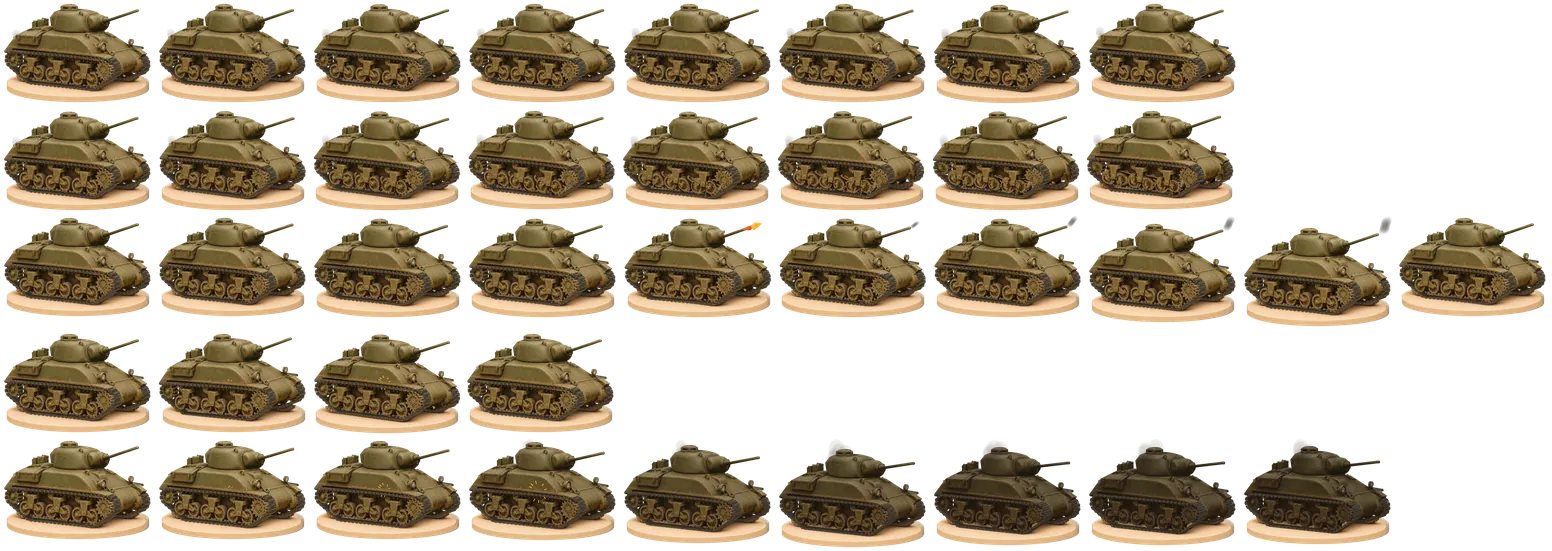
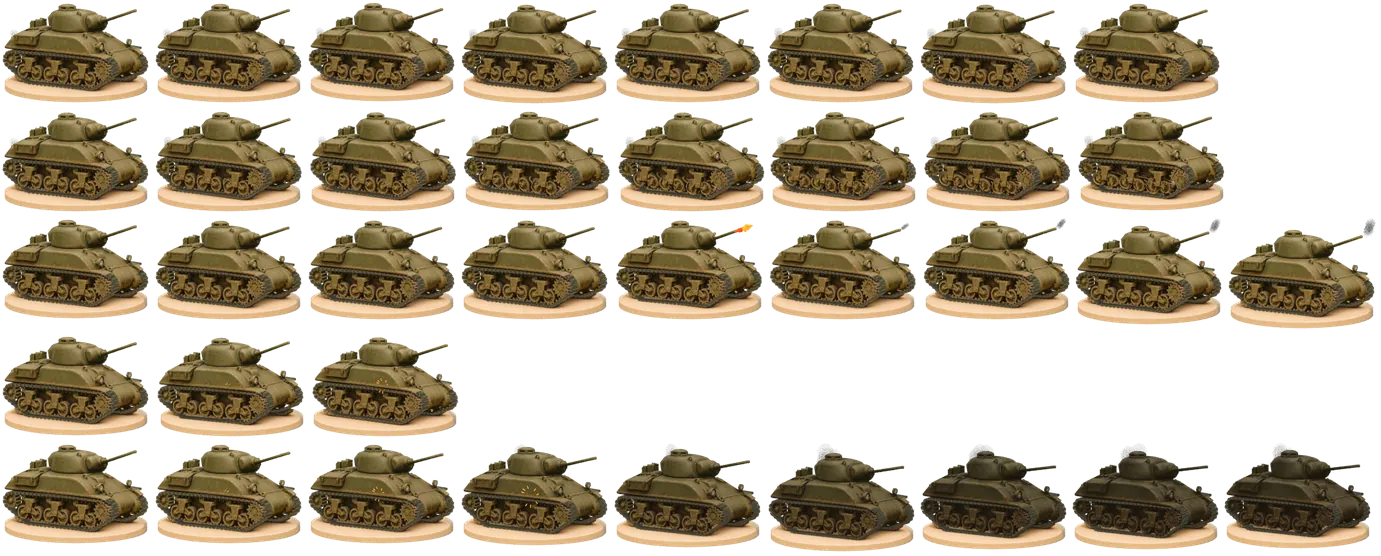
Codex task unit-anim-3d-vehicles: work left uncommitted in the sandbox

diff --git a/tools/art/anim3d/vehicles/paint.py b/tools/art/anim3d/vehicles/paint.py
@@ -9,6 +9,14 @@ from mathutils import Vector
 R=Path(os.environ['ANIM_ROOT']);M=R/'masters/tank'
 bpy.ops.wm.open_mainfile(filepath=str(M/'tank.blend'));sc=bpy.context.scene;bpy.context.view_layer.update()
 tex=bpy.data.images.load(str(M/'textures/painting-projection.png'),check_existing=True)
+light=bpy.data.images.load(str(M/'textures/painting-light.png'),check_existing=True)
+# This frame follows hull suspension, but never wheel spin. Object coordinates
+# supply the same orthographic UV field as PaintingProjection at rest.
+frame=bpy.data.objects.new('Wheel illumination frame',None)
+sc.collection.objects.link(frame)
+frame.matrix_world=sc.camera.matrix_world.copy()
+frame.parent=bpy.data.objects['Vehicle suspension root']
+frame.matrix_parent_inverse=frame.parent.matrix_world.inverted()
 view=sc.camera.rotation_euler.to_matrix() @ Vector((0,0,1))
 records=[]
 # Track shoes pass through many rest-screen positions. Their own physical steel
@@ -31,10 +39,12 @@ for name in names:
         facing=max(0,min(1,((normalmatrix @ v.normal).normalized().dot(view)+.08)/.08))
         weights.data[loop.index].color=(facing,facing,facing,1)
     original_material=o.data.materials[0]
-    if original_material.name in materials:
-        o.data.materials.clear();o.data.materials.append(materials[original_material.name]);continue
+    wheel=bool(o.parent and 'wheel' in o.parent)
+    material_key=(original_material.name,wheel)
+    if material_key in materials:
+        o.data.materials.clear();o.data.materials.append(materials[material_key]);continue
     mat=original_material.copy();mat.name=original_material.name+' • painted projection'
-    materials[original_material.name]=mat
+    materials[material_key]=mat
     o.data.materials.clear();o.data.materials.append(mat)
     n=mat.node_tree.nodes;l=mat.node_tree.links;s=n.get('Principled BSDF')
     if old:
@@ -44,10 +54,30 @@ for name in names:
     original=s.inputs['Base Color'].links[0].from_socket
     coord=n.new('ShaderNodeUVMap');coord.uv_map='PaintingProjection'
     image=n.new('ShaderNodeTexImage');image.image=tex;image.extension='CLIP';l.new(coord.outputs[0],image.inputs['Vector'])
+    pigment=image.outputs['Color']
+    if wheel:
+        moving=n.new('ShaderNodeTexImage');moving.image=light;moving.name='Wheel rotating broad light'
+        l.new(coord.outputs[0],moving.inputs['Vector'])
+        fixed=n.new('ShaderNodeTexCoord');fixed.object=frame
+        scale=n.new('ShaderNodeVectorMath');scale.operation='SCALE';scale.inputs[3].default_value=1/sc.camera.data.ortho_scale
+        l.new(fixed.outputs['Object'],scale.inputs[0])
+        offset=n.new('ShaderNodeVectorMath');offset.operation='ADD';offset.inputs[1].default_value=(.5,.5,0)
+        l.new(scale.outputs[0],offset.inputs[0])
+        stationary=n.new('ShaderNodeTexImage');stationary.image=light;stationary.name='Wheel stationary broad light'
+        l.new(offset.outputs[0],stationary.inputs['Vector'])
+        floor=n.new('ShaderNodeVectorMath');floor.operation='MAXIMUM';floor.inputs[1].default_value=(.018,)*3
+        l.new(moving.outputs['Color'],floor.inputs[0])
+        ratio=n.new('ShaderNodeVectorMath');ratio.operation='DIVIDE'
+        l.new(stationary.outputs['Color'],ratio.inputs[0]);l.new(floor.outputs[0],ratio.inputs[1])
+        low=n.new('ShaderNodeVectorMath');low.operation='MAXIMUM';low.inputs[1].default_value=(.6,)*3;l.new(ratio.outputs[0],low.inputs[0])
+        high=n.new('ShaderNodeVectorMath');high.operation='MINIMUM';high.inputs[1].default_value=(1.65,)*3;l.new(low.outputs[0],high.inputs[0])
+        corrected=n.new('ShaderNodeVectorMath');corrected.operation='MULTIPLY'
+        l.new(image.outputs['Color'],corrected.inputs[0]);l.new(high.outputs[0],corrected.inputs[1]);pigment=corrected.outputs[0]
+        mat['wheel_light_separated']=True
     confidence=n.new('ShaderNodeVertexColor');confidence.layer_name='Paint confidence'
     mask=n.new('ShaderNodeMath');mask.operation='MULTIPLY';l.new(confidence.outputs['Color'],mask.inputs[0]);l.new(image.outputs['Alpha'],mask.inputs[1])
     strength=n.new('ShaderNodeMath');strength.operation='MULTIPLY';strength.inputs[1].default_value=.98;l.new(mask.outputs[0],strength.inputs[0])
-    blend=n.new('ShaderNodeMixRGB');l.new(strength.outputs[0],blend.inputs[0]);l.new(original,blend.inputs[1]);l.new(image.outputs['Color'],blend.inputs[2]);l.new(blend.outputs[0],s.inputs['Base Color'])
+    blend=n.new('ShaderNodeMixRGB');l.new(strength.outputs[0],blend.inputs[0]);l.new(original,blend.inputs[1]);l.new(pigment,blend.inputs[2]);l.new(blend.outputs[0],s.inputs['Base Color'])
     s.inputs['Roughness'].default_value=.78;s.inputs['Metallic'].default_value=0
     # The painting already contains hand-painted light. A partial emission mix retains
     # that brushwork while the physical BSDF still supplies grain, edge glints and relief.
@@ -63,7 +93,7 @@ for material_name in ('Track steel • worn and earth packed', 'Dusty rubbed edg
     mat=bpy.data.materials[material_name];n=mat.node_tree.nodes;l=mat.node_tree.links
     shader=n.get('Principled BSDF');output=next(node for node in n if node.type=='OUTPUT_MATERIAL')
     emission=n.new('ShaderNodeEmission');l.new(shader.inputs['Base Color'].links[0].from_socket,emission.inputs['Color'])
-    lightpath=n.new('ShaderNodeLightPath');weight=n.new('ShaderNodeMath');weight.operation='MULTIPLY';weight.inputs[1].default_value=.25
+    lightpath=n.new('ShaderNodeLightPath');weight=n.new('ShaderNodeMath');weight.operation='MULTIPLY';weight.inputs[1].default_value=.40
     l.new(lightpath.outputs['Is Camera Ray'],weight.inputs[0])
     mix=n.new('ShaderNodeMixShader');l.new(weight.outputs[0],mix.inputs[0]);l.new(shader.outputs[0],mix.inputs[1]);l.new(emission.outputs[0],mix.inputs[2]);l.new(mix.outputs[0],output.inputs['Surface'])
 bpy.ops.file.pack_all();bpy.ops.wm.save_as_mainfile(filepath=str(M/'tank.blend'))

diff --git a/tools/art/anim3d/vehicles/refine.py b/tools/art/anim3d/vehicles/refine.py
@@ -183,14 +183,17 @@ for side in (-1,1):
             obj.location=(x,side*.99,z);obj.rotation_euler.y=a
             # Reduce the protruding shoe width, preserving pitch and real depth.
             for child in obj.children:
-                child.location.y*=.85
-                for vertex in child.data.vertices:vertex.co.y*=.85
+                child.location.y*=.78
+                for vertex in child.data.vertices:vertex.co.y*=.78
                 child.data.update()
 # Full-depth fenders clear each independently registered suspension side.
 for obj in bpy.data.objects:
     if obj.type!='MESH' or not obj.name.startswith(('Raised track fender','Fender folded edge','Front mudguard')):continue
     inverse=obj.matrix_world.inverted();root=bpy.data.objects['Vehicle suspension root']
-    ends=endsets[-1 if obj.location.y<0 else 1]
+    # Converted curves have an origin at zero: classify their actual vertices.
+    center=sum((root.matrix_world.inverted()@(obj.matrix_world@v.co)
+                for v in obj.data.vertices),Vector())/len(obj.data.vertices)
+    ends=endsets[-1 if center.y<0 else 1]
     for vertex in obj.data.vertices:
         world=obj.matrix_world@vertex.co
         local=root.matrix_world.inverted()@world
@@ -199,6 +202,9 @@ for obj in bpy.data.objects:
         local.z+=top-1.19
         vertex.co=inverse@(root.matrix_world@local)
     obj.data.update()
+# Seat the far rolled edge on the fender: the old converted curve protruded
+# behind the headlamp as a free horizontal rod.
+fit('Far rolled fender edge', ('Fender folded edge.001',), (0,0), offset=(0,6))
 # The transmission casting must meet the newly registered drive axle. Extend
 # its real forward volume and adjoining glacis rather than leaving a hollow
 # track loop beyond the short old nose.
@@ -220,6 +226,26 @@ for vertex in hull.data.vertices:
     w=max(0,min(1,(60-x)/25))*max(0,min(1,(y-95)/20))
     vertex.co=inverse@(world-right*units*8*w)
 hull.data.update()
+# Round-4 rear shoulder: the former extra extension made a low angular prow
+# behind the box. Move the closed surface back into the painted shoulder.
+for vertex in hull.data.vertices:
+    world=hull.matrix_world@vertex.co;p=world_to_camera_view(sc,camera,world)
+    x,y=p.x*256,(1-p.y)*256
+    w=max(0,min(1,(55-x)/35))*max(0,min(1,(y-98)/20))
+    vertex.co=inverse@(world+units*(right*4+up*7)*w)
+hull.data.update()
+# Keep the forward mudguards over the belt instead of the old straight blades.
+for obj in bpy.data.objects:
+    if obj.type!='MESH' or not obj.name.startswith('Front mudguard'):continue
+    inverse=obj.matrix_world.inverted()
+    near=obj.location.y<0
+    for vertex in obj.data.vertices:
+        world=obj.matrix_world@vertex.co;p=world_to_camera_view(sc,camera,world)
+        x,y=p.x*256,(1-p.y)*256
+        # Taper the forward tip while retaining the original thickness/depth.
+        w=max(0,min(1,(x-(175 if near else 225))/17))
+        vertex.co=inverse@(world+units*(-right*3+up*.8)*w)
+    obj.data.update()
 # Camera-only source pigment retains the painting's display colour. Physical
 # lights remain responsible for shadows, bevel response and unseen surfaces.
 sc.view_settings.view_transform='Standard';sc.view_settings.look='None';sc.view_settings.exposure=0

diff --git a/tools/art/anim3d/vehicles/audit.py b/tools/art/anim3d/vehicles/audit.py
@@ -2,6 +2,7 @@
 import bpy,os,json,math,sys
 from pathlib import Path
 from mathutils import Vector
+from bpy_extras.object_utils import world_to_camera_view
 sys.path.insert(0,str(Path(__file__).resolve().parent))
 from runninggear import route
 R=Path(os.environ['ANIM_ROOT']);M=R/'masters/tank';results={}
@@ -19,9 +20,28 @@ for clip,count in [('idle',8),('move',8),('attack',10),('hit',4),('death',10)]:
     assert all(o.type=='MESH' for o in [bpy.data.objects['Sloped upper hull'],bpy.data.objects['Rounded cast turret']])
     root=bpy.data.objects['Vehicle suspension root'];turret=bpy.data.objects['Turret traverse'];gun=bpy.data.objects['Gun recoil']
     assert turret.parent==root and gun.parent==turret
+    light_frame=bpy.data.objects['Wheel illumination frame']
+    assert light_frame.parent==root and not light_frame.animation_data
+    light_local=light_frame.matrix_local.copy()
+    separated=[o for o in bpy.data.objects if o.type=='MESH' and o.parent in wheels
+               and not o.name.startswith('Sprocket tooth')]
+    assert separated and all(o.data.materials[0].get('wheel_light_separated') for o in separated)
+    # At the authored rest transform the fixed field must match frozen UVs.
+    # A wrong parent inverse otherwise changes every wheel's rest-pose colour.
+    sc.frame_set(1);bpy.context.view_layer.update()
+    if clip!='move':
+        for obj in separated:
+            world=obj.matrix_world@obj.data.vertices[0].co
+            uv=world_to_camera_view(sc,sc.camera,world)
+            fixed=light_frame.matrix_world.inverted()@world
+            assert abs(fixed.x/sc.camera.data.ortho_scale+.5-uv.x)<1e-5
+            assert abs(fixed.y/sc.camera.data.ortho_scale+.5-uv.y)<1e-5
     positions=[];wheel_angles=[];gun_positions=[];ground=[]
     for f in samples:
         sc.frame_set(f);bpy.context.view_layer.update();assert base.matrix_world==base_initial
+        error=max(abs(light_frame.matrix_local[r][c]-light_local[r][c])
+                  for r in range(4) for c in range(4))
+        assert error<1e-5,('Broad wheel lighting must not spin',error)
         positions.append(tuple(links[0].location));wheel_angles.append(wheels[0].rotation_euler.y);gun_positions.append(gun.location.x)
         # Track link centre minus its shoe half-thickness at the lowest contact.
         ground.append(min((o.matrix_world.translation.z-.028) for o in links))

diff --git a/tools/art/anim3d/vehicles/prepare-paint.py b/tools/art/anim3d/vehicles/prepare-paint.py
@@ -1,7 +1,7 @@
 """Fit the full-resolution alpha master to the exact token camera field (no warping)."""
 from pathlib import Path
 import os,hashlib,json
-from PIL import Image
+from PIL import Image,ImageFilter
 R=Path(os.environ['ANIM_ROOT']);M=R/'masters/tank';source=M/'tank-source.png'
 lock=json.loads(Path('tools/art/anim3d/units/tank/assets.lock.json').read_text())
 for entry in lock['files']:
@@ -11,4 +11,7 @@ for entry in lock['files']:
 im=Image.open(source).convert('RGBA');fig=im.crop(im.getchannel('A').getbbox())
 k=min(928/fig.width,928/fig.height);fig=fig.resize((round(fig.width*k),round(fig.height*k)),Image.Resampling.LANCZOS)
 out=Image.new('RGBA',(1024,1024));out.alpha_composite(fig,((1024-fig.width)//2,(1024-fig.height)//2));out.save(M/'textures/painting-projection.png')
+# A low-frequency illumination estimate, not an albedo claim. Wheel detail uses
+# the original pigment; this smooth field separates its broad painted light.
+out.convert('RGB').filter(ImageFilter.GaussianBlur(16)).save(M/'textures/painting-light.png')
 (M/'textures/painting-projection.json').write_text(json.dumps({'source_sha256':hashlib.sha256(source.read_bytes()).hexdigest(),'fit':'same alpha-bbox fit as unit-art.py: 232/256 field, 4x resolution','size':1024},indent=2))

diff --git a/tools/art/anim3d/vehicles/video.py b/tools/art/anim3d/vehicles/video.py
@@ -5,7 +5,7 @@ from PIL import Image, ImageDraw
 from deliver import CLIPS, restore, OUT, REVIEW, R
 meta=json.loads((OUT/'tank.json').read_text());atlas=Image.open(OUT/'tank.webp').convert('RGBA')
 frames={n:[restore(atlas,r).resize((320,320),Image.Resampling.LANCZOS) for r in c['rects']] for n,c in meta['clips'].items()}
-round_label=os.environ.get('ROUND','3-cpu')
+round_label=os.environ.get('ROUND','4-cpu')
 assert all(c.isalnum() or c in '-_' for c in round_label)
 out=REVIEW/f'tank-round{round_label}.mp4'
 cmd=['ffmpeg','-y','-loglevel','error','-f','rawvideo','-pixel_format','rgb24','-video_size','1600x348','-framerate','30','-i','pipe:0','-an','-c:v','libx264','-threads','3','-pix_fmt','yuv420p','-crf','18','-movflags','+faststart',str(out)]

diff --git a/tools/art/anim3d/vehicles/REVIEW.md b/tools/art/anim3d/vehicles/REVIEW.md
@@ -1,23 +1,23 @@
-# Tank candidate — round 3 after GPU review
+# Tank candidate — round 4 after GPU review
 
-**Not visually passed.** The painting remains the production asset; this lane has no runtime wiring or `tank-PASS` marker. The lead's round-2 receipt confirms Cycles GPU512/256 samples, all 40 frames, a Q80/190,044-byte atlas and an eight-second video. Those renders and masters are preserved under `masters/tank/round2-gpu-receipt/`.
+**Not visually passed.** The painting remains the production asset; no runtime wiring or `tank-PASS` marker. The lead's round-3 GPU pass succeeded: Cycles GPU512/256 samples, all 40 frames, Q80/197,260-byte atlas, eight-second video. Its renders, clips, actual 512/256 masters and review evidence are preserved under `masters/tank/round3-gpu-receipt/`.
 
-This revision calibrates the camera from the round stone's lower-rim ellipse, keeps the saved camera through rendering, re-fits rear armour/stowage and real headlamps, narrows the shoes and muzzle, and removes invented black sprocket plugs. Existing generated hidden-surface fill, bevels, thick straps/folded canvas, product lighting, six fresh AO/curvature bakes, frozen camera projection and automatic histogram grading remain. Effects now follow the measured muzzle. Detail comparison uses matching framing. The GPU script also produces top/front geometry views of the complete eight-frame move cycle; this is the mechanical equivalent of the feet check.
+This revision fixes fender-side classification for converted curves, seats the far rolled edge, tapers mudguard tips, narrows track shoes and raises/shortens the rear armour shoulder. Wheel shaders separate a bounded broad-light estimate from rotating pigment; the illumination frame follows suspension but never wheel spin. This preserves rest projection and reduces broad painted-shadow rotation. Fine painted aperture shadows still rotate: it is an approximate decomposition, not recovered physical albedo. Existing generated olive fill, bevels, solid straps/folded canvas, product lighting, six regenerated AO/curvature bakes and automatic frozen histogram grade remain.
 
-At **256px**, the base and rear outline are closer, with rich painted surfaces; the far fender, circular wheel finish and some fixture contours still differ. At **64px**, it reads as the same WWII tank, but is not indistinguishable. The five strips and decoded video frames were inspected: no frame-edge clipping, clean recoil/hit/held wreck, but painted wheel lighting travels during rotation and low-sample smoke is grainy. Top/front views show parallel running gear; physical contact and travel/radius checks pass. Off-angle views expose the locally fitted geometry, so this is not a general-purpose vehicle model.
+At **256px**, the outline is closer and the stray bar behind the far headlamp is gone. Track finish and circular wheel detail are still too regular, and effects remain simplified. At **64px**, it reads as the same WWII tank, but heavier front running gear remains distinguishable. All five strips and decoded video frames were inspected: no frame-edge clipping, restrained recoil/hit, identical held wreck; low-sample smoke remains grainy. The eight-frame top/front geometry review shows parallel running gear, with contact and wheel/track speed confirmed by audit. This fixed-view fitted model is not a general-purpose multi-view vehicle.
 
-Descriptive source comparisons: native 256px alpha IoU **.927584 → .949746**, opaque-overlap RGB MAE **6.595 → 7.489**. At native 64px, IoU **.896830 → .912717**, RGB MAE **15.993 → 16.127**. The prior frame is GPU512/256 samples and the new frame CPU256/12 samples; these are not like-for-like quality results or approval thresholds. Exact evidence is in `review/3d-v2/tank-round3-metrics.json`.
+Descriptive source comparisons: 256px alpha IoU **.949667 → .952378**, opaque-overlap RGB MAE **6.594 → 7.598**; 64px IoU **.911663 → .913194**, MAE **16.104 → 15.880**. These compare GPU512/256-sample round3 against CPU256/12-sample round4, not a controlled quality comparison or approval threshold. Exact image hashes are in `review/3d-v2/tank-round4-metrics.json`.
 
-Current CPU delivery passes: **180,602 bytes at Q80**, all 40 frames, 160px trimmed cells. Validation checks source/scene/grade hashes, rest/clip camera agreement, counts/timing, bounds, offsets, nonoverlap, exact reconstructed alpha and identical decoded terminal death. Geometry audit passes 124 links, 16 wheel pivots, travel/radius, recoil, contact, six bakes and stationary base. Three numerical belt tests pass; 16 Python files parse; three shell entry points pass syntax checks. No Rust/UI code changed.
+CPU delivery passes: **181,292 bytes at Q80**, 40 frames, 160px trimmed logical cells, 1381x556 atlas. Validation checks source/scene/grade hashes, rest/clip camera agreement, counts/timing, offsets, nonoverlap, exact reconstructed alpha and identical decoded death hold. Geometry audit passes 124 links, 16 wheel pivots, travel/radius, recoil, contact, stationary base, six bakes, rest wheel-light coordinate agreement and nonspinning light coordinates across every sample. Three route tests pass; 16 Python files parse; three shell entry points pass syntax checks. No Rust/UI code changed.
 
-Current 256px masters, all interim sheets/WebPs, `tank-g-feet-check.png`, and `tank-round3-cpu.mp4` exist outside git. The video probe confirms H.264/yuv420p, 1600x348, 240 frames/eight seconds. Previous 512px masters are explicitly filed with the old GPU receipt; fresh 512px masters for this revision remain pending the lead's GPU pass.
+Current actual 256px masters, all interim PNG/WebP reviews, top/front geometry views and `tank-round4-cpu.mp4` exist outside git. FFprobe confirms H.264/yuv420p, 1600x348, 240 frames/eight seconds. Current-round 512px masters await GPU rendering; previous actual 512px output is preserved with the prior receipt.
 
 From this checkout run:
 
 ```sh
-ROUND=3 tools/art/anim3d/units/tank/gpu.sh
+ROUND=4 tools/art/anim3d/units/tank/gpu.sh
 ```
 
-The executable no-argument script renders every stage and clip serially with Metal Cycles at 512px/256 samples, archives actual 512/256 masters, packs and validates the atlas, audits geometry, makes the crossfade and top/front review, and probes/decodes `tank-round3.mp4`. It leaves visual approval to the reviewer and never writes PASS automatically.
+This executable no-argument script renders every stage and clip serially using Metal Cycles at 512px/256 samples, archives actual 512/256 masters, packs and validates the atlas, audits geometry, creates the crossfade/top-front reviews, and probes/decodes `tank-round4.mp4`. It never writes PASS automatically. GPU rendering was not attempted from the Metal-less sandbox this round.
 
-Non-obvious findings: a renderer that restores a construction camera silently breaks frozen projection when camera calibration changes. Match the detail comparison's source crop to the rendered camera too. A lower base ellipse can improve the rest silhouette while exposing fixture occlusion and lighting errors; inspect actual meshes and animation after each fit. Projecting wheel/bogie fragments onto moving shoes tears during motion, so travelling shoes retain their own pigment. Small atlas size and a successful GPU job do not establish art parity.
+Non-obvious findings: converted-curve object origins cannot identify a vehicle side; use mesh positions. Broad painted lighting needs a nonspinning coordinate field independent of wheel pigment. Blender evaluates an unchanged child-local matrix with sub-micro-unit roundoff under suspension movement, so verify with a small numerical tolerance rather than exact matrix equality.

diff --git a/tools/art/anim3d/PLAYBOOK.md b/tools/art/anim3d/PLAYBOOK.md
@@ -125,7 +125,7 @@ Never hide effects by setting scale to zero or nearly zero. Key `hide_render` an
 The executable, no-argument driver entry point is:
 
 ```sh
-ROUND=3 tools/art/anim3d/units/tank/gpu.sh
+ROUND=4 tools/art/anim3d/units/tank/gpu.sh
 ```
 
 It renders every review stage and all 40 clip frames serially in Metal Cycles at 512px, 256 samples with denoising (override `SAMPLES` explicitly if needed). It uses the saved built/baked/projected/animated masters and never rebuilds them. It creates the actual 512px and downsampled 256px master sets, packs and validates the 160px trimmed atlas, audits saved geometry, and makes the eight-second H.264/yuv420p `tank-round${ROUND}.mp4`. All five clips appear side by side at 2x on cream; one-shot clips replay every two seconds with a terminal hold. FFprobe verifies 240 frames, eight seconds and 1600x348 dimensions; representative video frames are decoded for inspection. Missing Metal devices fail explicitly; sandbox CPU previews do not establish GPU success.
@@ -223,3 +223,41 @@ but the running gear and far fender remain distinguishable. Painted illumination
 still rotates with wheel texture; CPU smoke is grainy. **No tank-PASS marker.**
 The fresh GPU512 pass and visual review are still required for these changed
 masters. Run `ROUND=3 tools/art/anim3d/units/tank/gpu.sh`.
+
+
+### Round 4 after the lead GPU receipt
+
+The round-3 GPU pass succeeded: 40 frames, **197,260 bytes at Q80**, actual
+512/256 masters and a verified eight-second H.264/yuv420p video. Its immutable
+review copy is under `masters/tank/round3-gpu-receipt/`. Current host entry point
+now defaults to ROUND=4; run `ROUND=4 tools/art/anim3d/units/tank/gpu.sh` from this
+checkout. No GPU failure needed repair in this round.
+
+Converted fender curves have zero-valued object origins. Side selection now uses
+the actual mesh centroid in suspension space, so the near rolled edge follows
+the near suspension. The far rolled edge is seated below the lamp, forward
+mudguard tips taper, shoes narrow from .85 to .78 of construction width, and
+the rear shoulder is raised and shortened. All edits retain closed geometry;
+the six AO/curvature maps and rest-camera UVs are regenerated afterwards.
+
+`prepare-paint.py` derives a 16px-radius low-pass field from the 1024px painting.
+Wheel materials divide rotating pigment by its rotating broad-light estimate
+and multiply by a nonspinning broad-light field, clamping the ratio to .6–1.65.
+The illumination frame follows hull suspension, not the axles. At rest its
+coordinates agree with the saved camera projection. This is approximate
+frequency separation, not a claim of recovered albedo: small painted aperture
+shadows can still rotate. The existing generated olive hidden fill, hard-edge
+bevels, thick straps, folded canvas, product lights and frozen histogram grade
+remain. `audit.py` checks rest-coordinate agreement and all-frame nonspinning
+lighting in addition to the mechanical/contact checks. Matrix comparison uses
+1e-5 tolerance: Blender evaluation showed harmless 4.8e-7 matrix roundoff.
+
+Current CPU256/12-sample delivery: **181,292 bytes at Q80**, 40 frames, 1381x556
+trimmed atlas, 160px logical cells. All three route tests, geometry/contact and
+wheel-light audit, exact alpha/offset/camera/grade/held-death checks pass. All
+review sheets and actual 256px masters are refreshed; `tank-round4-cpu.mp4` is
+H.264/yuv420p, 1600x348, 240 frames/eight seconds, with decoded frames inspected.
+Previous 512px masters remain with the GPU receipt; fresh round-4 GPU512 output
+is still required. At256 the fender/shoulder outline is closer, but the tread
+finish, wheel detail and simplified effects remain distinguishable. At64 the
+identity is correct but the heavier front running gear still differs. **No PASS.**

diff --git a/tools/art/anim3d/units/tank/SOURCES.md b/tools/art/anim3d/units/tank/SOURCES.md
@@ -6,3 +6,5 @@
 - Existing Blender 5.3.0 (https://www.blender.org/, GPL software), Pillow 13.0.0 (https://pypi.org/project/pillow/13.0.0/, MIT-CMU), FFmpeg. Original geometry, mechanical rig and scripts: MIT; rendered artwork: CC BY 4.0.
 
 This unit contains no human or animal gait. Its motion is mechanical: arc-length track travel, wheel travel/radius, turret traversal, recoil and suspension. `tank-g-feet-check.png` provides actual top/front geometry views over all eight move samples. No mocap is used or claimed. Assets, bakes and masters stay under `~/LegatumRuns/anim-pilot/`.
+
+Round 4 derives `painting-light.png` by low-pass filtering the same pinned painting for a bounded wheel-light decomposition; same project CC BY 4.0. No new third-party asset, download or generation. Existing generated olive fill is retained.
